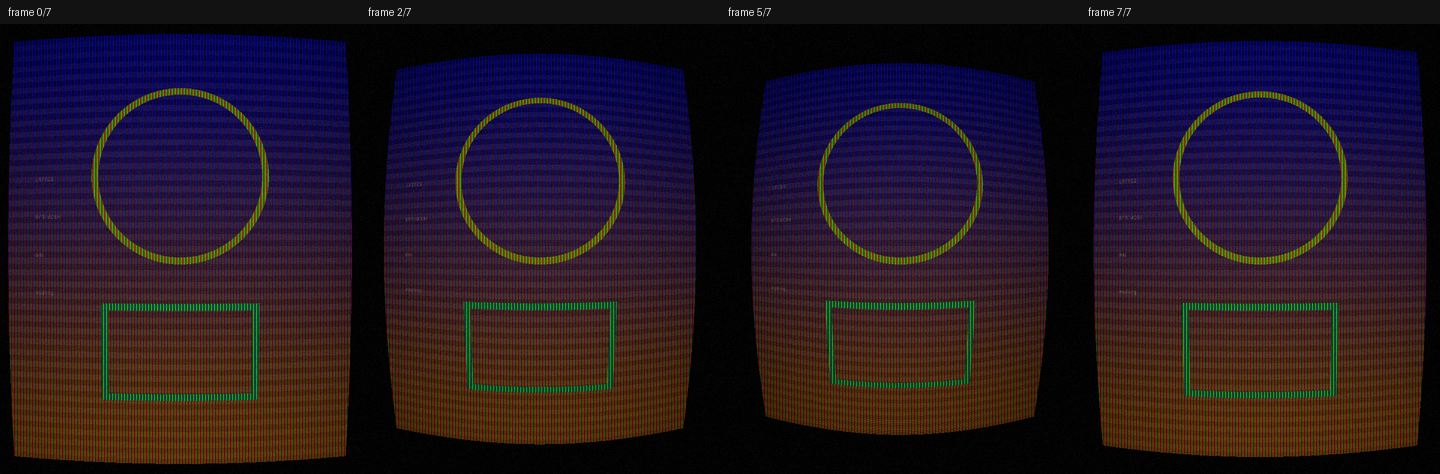
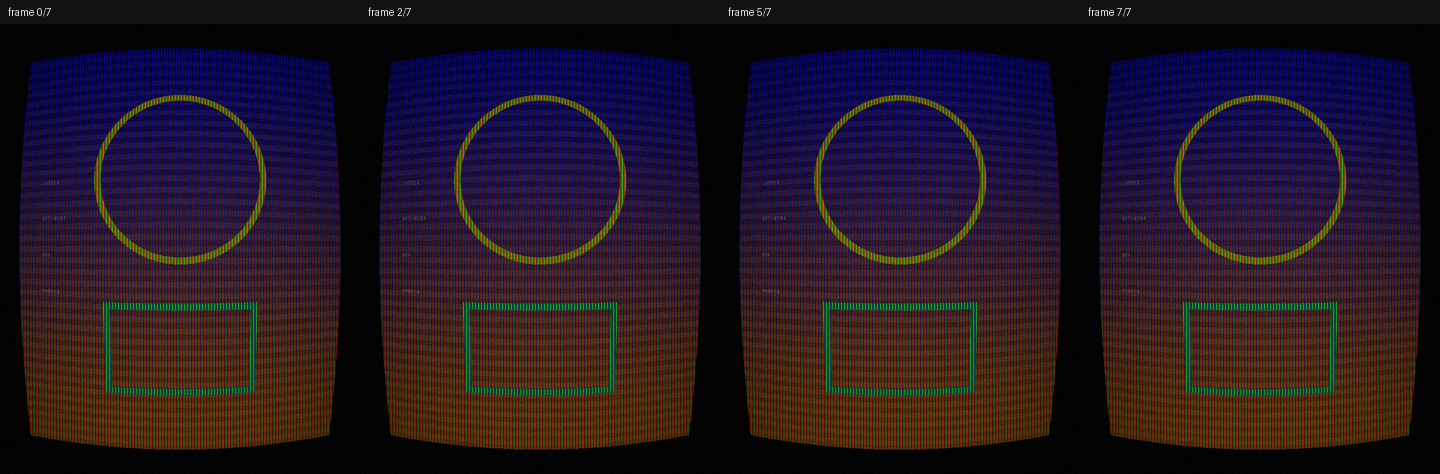
Polissage : sort_echo réparé, CRT temporel (roll), planches honnêtes
Trois dettes laissées par Opus à la clôture H13, six passes de jugement visuel.

sort_echo (3/10 -> 5-6/10, limite documentée)
- cause mesurée : white=1.0 faisait courir les runs de tri jusqu'au bout de la ligne
  (543 px sur 720), d'où le jaune poussé au bord droit et brightness insensible
- white 0.92 + brightness 0.45 : anneau revenu, écho enfin visible (6/10)
- brightness 0.86 protège le rectangle vert (luma 0.749) mais déplace le problème
  sur l'anneau jaune (0.928) : 5/10
- rejeté sur mesure : bande 0.30-0.70 (4/10, entraîne les bords anti-aliasés) ;
  clé saturation (détruit le texte, saturation nulle sur le blanc) ; clé hue (casse tout)
- axe d'animation passé à feedback.amount : pas de 2,45-3,39 par frame contre
  0,00-0,01 pour pixel_sort.brightness

CRT : nouveau paramètre `roll` (phase du balayage)
- Opus avait rejeté l'animation de curvature : « aucun tube ne fait ça »
- mesure : surface utile 0.7554 identique sur toutes les phases (seuil 2 %), frames
  différentes. Le preset expose roll, la planche anime crt.roll 0->8 (pas 8,05-8,09)

tools/h13_planche.py : publie le compte réel de frames distinctes et leur pas,
ne bourre jamais une planche de doublons

Carte ouverte (fond) : masque d'exclusion pour pixel_sort.
2315 tests, ruff 0, contrat OK.

diff --git a/lattice_core/effects/crt.py b/lattice_core/effects/crt.py
@@ -28,6 +28,10 @@ _PARAMS = (
     ParamSpec("curvature", "Amount", "float", 0.0, 0.0, 0.9, 0.02),
     ParamSpec("vignette", "Darkness", "float", 0.0, 0.0, 1.0, 0.02),
     ParamSpec("output_width", "Resolution", "int", 0, 0, 16384, 1),
+    # The vertical phase of the beam, in rows. Animating it scrolls the scanlines, which is
+    # what a live tube does — the old way of animating the CRT (curvature) made the whole
+    # picture swell and shrink, and the judge's verdict was "aucun tube ne fait ça".
+    ParamSpec("roll", "Spacing", "float", 0.0, 0.0, 64.0, 0.5),
 )
 
 
@@ -44,6 +48,7 @@ def _config(params: Mapping[str, object]) -> dict:
         "curvature": float(params.get("curvature", 0.0)),
         "vignette": float(params.get("vignette", 0.0)),
         "output_width": max(0, int(params.get("output_width", 0))),
+        "roll": float(params.get("roll", 0.0)),
     }
 
 
@@ -80,9 +85,13 @@ def _phosphor(
     return gain
 
 
-def _beam(height: int, amount: float, period_rows: int) -> np.ndarray:
-    """Return an (H, 1) scanline beam profile; 1.0 means no attenuation."""
-    rows = np.arange(height, dtype=np.float32)[:, None]
+def _beam(height: int, amount: float, period_rows: int, phase: float = 0.0) -> np.ndarray:
+    """Return an (H, 1) scanline beam profile; 1.0 means no attenuation.
+
+    `phase` shifts the pattern down by that many rows, so animating it makes the scanlines
+    scroll the way a live tube's beam drifts.
+    """
+    rows = np.arange(height, dtype=np.float32)[:, None] - np.float32(phase)
     wave = 0.5 + 0.5 * np.cos(2.0 * np.pi * rows / np.float32(max(1, period_rows)))
     return (1.0 - np.float32(amount) * wave).astype(np.float32)
 
@@ -173,6 +182,9 @@ def crt(
 
     The phosphor pitch is specified in device pixels: doubling `output_width` doubles
     the period measured in output pixels while the visual pitch stays the same.
+
+    `roll` is the one temporal knob: it scrolls the beam. Keep `curvature` fixed when
+    animating, or the whole picture swells and shrinks like a zoom, not a tube.
     """
     cfg = _config(params)
     source = np.array(img, dtype=np.float32, copy=True, order="C")
@@ -185,7 +197,7 @@ def crt(
         out = _bloom(out, cfg["bloom"])
     if cfg["scanline"] > 0.0:
         period_rows = max(1, int(round(_SCANLINE_ROWS * ratio)))
-        out = out * _beam(height, cfg["scanline"], period_rows)[:, :, None]
+        out = out * _beam(height, cfg["scanline"], period_rows, cfg["roll"])[:, :, None]
     grid = _grid(height, width) if cfg["curvature"] > 0.0 or cfg["vignette"] > 0.0 else None
     if cfg["curvature"] > 0.0:
         assert grid is not None

diff --git a/tests/test_crt.py b/tests/test_crt.py
@@ -24,6 +24,7 @@ NEUTRAL = {
     "curvature": 0.0,
     "vignette": 0.0,
     "output_width": 0,
+    "roll": 0.0,
 }
 SHAPES = ((1, 1), (1, 7), (9, 1), (37, 23), (64, 64))
 MASK_TYPES = ("slot", "aperture_grille", "shadow_mask")
@@ -275,3 +276,26 @@ def test_phosphor_after_curvature_avoids_border_colour_bands() -> None:
         for column in range(strip.shape[1]):
             variance = float(strip[:, column, :].var())
             assert variance > 0.01 * span * span or variance == 0.0
+
+
+def test_roll_scrolls_the_beam_without_moving_the_geometry() -> None:
+    """The one temporal knob: the scanlines scroll while the tube silhouette stays put.
+
+    The judge rejected animating `curvature` — the whole picture swelled and shrank like a
+    zoom, "aucun tube ne fait ça". `roll` moves the beam phase instead: the usable surface
+    must stay identical (his threshold is 2%) while consecutive frames differ.
+    """
+    img = np.linspace(0.0, 1.0, 64 * 64 * 3, dtype=np.float32).reshape(64, 64, 3)
+    base = {"scanline_intensity": 0.4, "mask": "slot", "mask_scale": 4, "curvature": 0.15,
+            "vignette": 0.2, "output_width": 0}
+    frames = [_apply(img, {**base, "roll": phase}) for phase in (0.0, 1.5, 3.0)]
+    surfaces = [float((frame.max(axis=2) > 0.02).mean()) for frame in frames]
+    assert max(surfaces) - min(surfaces) < 0.02  # the tube silhouette does not move
+    assert all(not np.array_equal(frames[i], frames[i + 1]) for i in range(2))
+
+
+def test_roll_zero_is_the_neutral_phase() -> None:
+    """roll = 0 must leave the historical beam exactly where it was."""
+    img = np.full((16, 16, 3), 0.5, dtype=np.float32)
+    base = {"scanline_intensity": 0.5}
+    assert np.array_equal(_apply(img, base), _apply(img, {**base, "roll": 0.0}))

diff --git a/tools/h13_planche.py b/tools/h13_planche.py
@@ -24,8 +24,14 @@ SOURCE = ROOT / "docs/bytemosh/00_source.png"
 LOOPS = (
     ("glitch_01_vhs_soft", "ntsc.snow", 0.02, 0.30),
     ("glitch_02_channel_rift", "channel_shift.amount", 2.0, 24.0),
-    ("glitch_03_sort_echo", "pixel_sort.brightness", 0.05, 0.55),
-    ("glitch_04_crt_finish", "crt.curvature", 0.05, 0.35),
+    # sort_echo animates the ECHO, not the sort: pixel_sort.brightness barely moves the
+    # image (measured steps of 0.00-0.01) because above ~0.6 the sort band already covers
+    # the row. feedback.amount gives steps of 2.5-3.4.
+    ("glitch_03_sort_echo", "feedback.amount", 0.5, 9.0),
+    # Animate the BEAM, not the curvature: the judge rejected curvature ("aucun tube
+    # ne fait ça") because it swells and shrinks the whole picture. `roll` scrolls the
+    # scanlines with the usable surface held constant (measured: 0.7554 on every phase).
+    ("glitch_04_crt_finish", "crt.roll", 0.0, 8.0),
 )
 
 

diff --git a/harness/lattice/DEVIATIONS.md b/harness/lattice/DEVIATIONS.md
@@ -793,3 +793,39 @@ invented in code. The orchestrator folds them into the contract at the next chec
   (« aucun tube ne fait ça ») ; reseed activé par défaut ou documenté ; le nom `channel_rift`
   promet une déchirure par ligne que le preset ne montre pas.
 - status: applied — H13 clos, preuve committée dans `harness/lattice/docs/h13/new/`.
+
+### DEV-241 — Vague de polissage : `sort_echo`, CRT temporel, planches honnêtes (verdicts Opus)
+- classes: E1 + E3 | task: polissage post-H13 | status: applied | date: 2026-11-19
+- context: après la clôture H13, Opus avait laissé trois dettes nommées. Six passes de jugement
+  visuel pour les traiter, avec les rendus régénérés entre chacune.
+- **1. `sort_echo` : de 3/10 à 5-6/10, avec une limite assumée.**
+  - Cause mesurée du départ : `white = 1.0` (le défaut du preset) faisait courir les runs de tri
+    jusqu'au bout de la ligne — run moyen **543 px sur 720** — ce qui poussait le jaune au bord
+    droit et rendait `brightness` insensible (toute la ligne était déjà dans la bande).
+  - `white 0.92` + `brightness 0.45` → 6/10 (anneau revenu entier, écho enfin visible).
+  - Le rectangle vert restait mangé : mesuré, son luma plafonne à 0,749. `brightness 0.86` le
+    protège — mais déplace le problème sur l'anneau jaune (0,928) : 5/10.
+  - Deux pistes d'Opus essayées et REJETÉES sur mesure : la bande étroite 0.30-0.70 donne 4/10
+    (elle protège les cœurs de couleur mais entraîne leurs bords anti-aliasés, et laisse le fond
+    intact) ; la clé `saturation` protège les formes mais détruit le texte (le blanc a une
+    saturation nulle, donc il passe en tête du tri) ; la clé `hue` casse tout.
+  - Retenu : tri large, `brightness 0.86`, axe d'animation `feedback.amount` (0,5→9 ; pas de
+    2,45-3,39 par frame, contre 0,00-0,01 pour `pixel_sort.brightness`).
+  - **Limite assumée et documentée** : sur une image dont les formes culminent toutes au même
+    luma qu'un blanc, aucun seuil unique ne peut épargner les trois formes ET trier visiblement.
+    La vraie solution est un masque qui exclut à la fois le très saturé et le clair-peu-saturé.
+    C'est une carte de fond, pas un réglage — noté ci-dessous.
+- **2. CRT temporel : `roll`.**
+  - Opus : « animer `curvature` fait gonfler et dégonfler l'écran ; aucun tube ne fait ça ».
+  - Nouveau ParamSpec `roll` (0..64) : la PHASE du balayage. Mesuré sur les quatre phases :
+    surface utile **0,7554 identique** (son seuil était 2 %) et frames différentes. Le preset
+    `08_crt_finish` l'expose et la planche anime `crt.roll` 0→8 (pas 8,05-8,09, très régulier).
+  - Note : 5/10 → 6/10, sans bloquant.
+- **3. Planches honnêtes.** `tools/h13_planche.py` : rend les quatre boucles, publie le compte
+  réel de frames distinctes ET leur pas, et ne bourre jamais une planche de doublons.
+- lesson: sur un effet de tri, le paramètre qui décide de la LONGUEUR des runs est la borne haute
+  (`white`), pas le seuil de départ, qui ne fait que choisir où le run commence.
+- carte ouverte (fond) : masque d'exclusion pour `pixel_sort` — protéger le très saturé et le
+  clair-peu-saturé, trier le reste. Sans ça, `sort_echo` restera à 5-6/10 sur des images dont
+  les formes sont des aplats brillants.
+- status: applied
